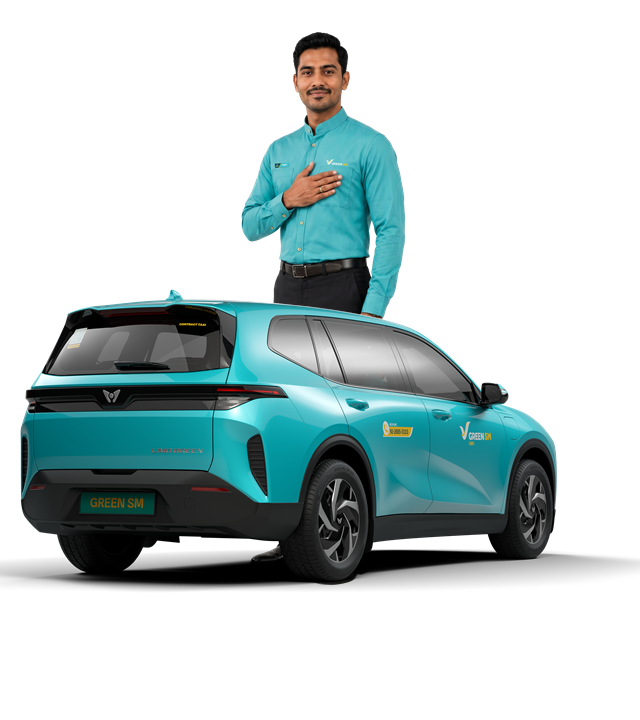
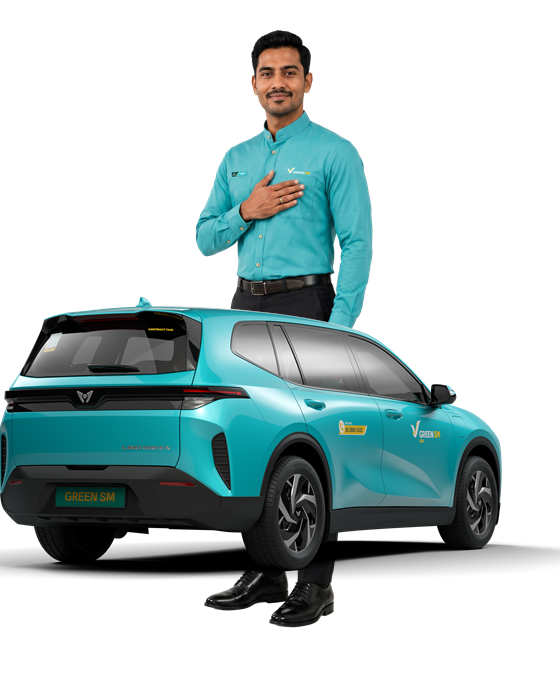
fix(site): Public Sans only + tighter hero composite
- Drop Xanh Display entirely; use Public Sans for headings + body (#2)
- Rebuild hero composite: driver fills the frame, car bleeds wide and
  overlaps his legs — tighter framing matching the reference, less
  empty teal space that made it look sparse/elongated (#1)
- Bump cache version to v5

Changed region(s): [[0.0, 0.03, 0.9714, 0.9]]

diff --git a/styles.css b/styles.css
@@ -1,12 +1,3 @@
-/* ============ FONTS ============ */
-@font-face {
-  font-family: "Xanh Display";
-  src: url("assets/fonts/XanhDisplay2.0-Regular.ttf") format("truetype");
-  font-weight: 400 900;
-  font-style: normal;
-  font-display: swap;
-}
-
 /* ============ DESIGN TOKENS (matched to xanhsm reference) ============ */
 :root {
   --cyan: #21c3d6;
@@ -26,7 +17,7 @@
   --shadow-sm: 0 10px 26px -16px rgba(8, 70, 74, 0.4);
   --maxw: 1200px;
   --font: "Public Sans", system-ui, -apple-system, "Segoe UI", Roboto, sans-serif;
-  --font-display: "Xanh Display", "Public Sans", Georgia, serif;
+  --font-display: "Public Sans", system-ui, -apple-system, "Segoe UI", Roboto, sans-serif;
 }
 
 /* ============ RESET ============ */

diff --git a/index.html b/index.html
@@ -8,7 +8,7 @@
   <link rel="preconnect" href="https://fonts.googleapis.com" />
   <link rel="preconnect" href="https://fonts.gstatic.com" crossorigin />
   <link href="https://fonts.googleapis.com/css2?family=Public+Sans:wght@400;500;600;700;800;900&display=swap" rel="stylesheet" />
-  <link rel="stylesheet" href="styles.css?v=4" />
+  <link rel="stylesheet" href="styles.css?v=5" />
 </head>
 <body>
 
@@ -310,6 +310,6 @@
   <!-- Toast -->
   <div class="toast" id="toast" role="status" aria-live="polite"></div>
 
-  <script src="script.js?v=4"></script>
+  <script src="script.js?v=5"></script>
 </body>
 </html>